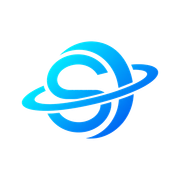
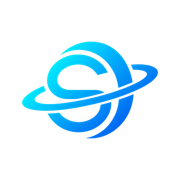
Updated website design

diff --git a/components/layout/navbar.tsx b/components/layout/navbar.tsx
@@ -20,7 +20,7 @@ import { Container } from "@/components/layout/container";
 import { ThemeToggle } from "@/components/layout/theme-toggle";
 import { Button, buttonVariants } from "@/components/ui/button";
 import { mainNavItems, siteConfig } from "@/constants/site";
-import { useScrollPosition } from "@/hooks";
+import { useScrollPosition, useMediaQuery } from "@/hooks";
 import { cn } from "@/lib/utils";
 
 import { ThemeLogo } from "@/components/layout/theme-logo";
@@ -28,6 +28,7 @@ import { ThemeLogo } from "@/components/layout/theme-logo";
 export function Navbar() {
   const pathname = usePathname();
   const scrolled = useScrollPosition();
+  const isDesktop = useMediaQuery("(min-width: 980px)");
 
   return (
     <header
@@ -35,7 +36,9 @@ export function Navbar() {
         "sticky top-0 z-50 w-full border-b transition-colors duration-200",
         scrolled
           ? "border-border bg-background/80 backdrop-blur-md"
-          : "border-transparent bg-background/60 backdrop-blur-md md:bg-transparent md:backdrop-blur-none"
+          : isDesktop
+            ? "border-transparent"
+            : "border-transparent bg-background/60 backdrop-blur-md"
       )}
     >
       <UtilityBar />
@@ -46,21 +49,23 @@ export function Navbar() {
             <ThemeLogo />
           </Link>
 
-          <DesktopNav pathname={pathname} />
+          {isDesktop && <DesktopNav pathname={pathname} />}
 
           <div className="flex shrink-0 items-center gap-2 md:gap-3">
             <ThemeToggle />
-            <Link
-              href="/contact"
-              className={cn(
-                buttonVariants({ size: "default" }),
-                "hidden rounded-full px-4 md:inline-flex"
-              )}
-            >
-              Contact Us
-              <ArrowRight className="size-3.5" aria-hidden="true" />
-            </Link>
-            <MobileNav pathname={pathname} />
+            {isDesktop && (
+              <Link
+                href="/contact"
+                className={cn(
+                  buttonVariants({ size: "default" }),
+                  "rounded-full px-4"
+                )}
+              >
+                Contact Us
+                <ArrowRight className="size-3.5" aria-hidden="true" />
+              </Link>
+            )}
+            {!isDesktop && <MobileNav pathname={pathname} />}
           </div>
         </div>
       </Container>
@@ -130,10 +135,10 @@ function DesktopNav({ pathname }: { pathname: string }) {
 
   return (
     <NavigationMenu.Root
-      className="hidden min-w-0 flex-1 md:flex md:justify-center"
+      className="flex min-w-0 flex-1 justify-center"
       aria-label="Main"
     >
-      <NavigationMenu.List className="relative flex items-center gap-6">
+      <NavigationMenu.List className="relative flex items-center gap-2 xl:gap-6">
         {items.map((item) => {
           if (!item.columns) {
             const isActive = pathname === item.href;
@@ -232,7 +237,7 @@ function MobileNav({ pathname }: { pathname: string }) {
           <Button
             variant="ghost"
             size="icon"
-            className="md:hidden"
+            className=""
             aria-label="Open menu"
           >
             <Menu aria-hidden="true" />

diff --git a/hooks/use-media-query.ts b/hooks/use-media-query.ts
@@ -1,0 +1,22 @@
+"use client";
+
+import { useEffect, useState } from "react";
+
+/**
+ * Returns `true` when the viewport matches the given media query string.
+ * Defaults to `false` on the server / first render to avoid hydration mismatches.
+ */
+export function useMediaQuery(query: string): boolean {
+  const [matches, setMatches] = useState(false);
+
+  useEffect(() => {
+    const mql = window.matchMedia(query);
+    setMatches(mql.matches);
+
+    const handler = (e: MediaQueryListEvent) => setMatches(e.matches);
+    mql.addEventListener("change", handler);
+    return () => mql.removeEventListener("change", handler);
+  }, [query]);
+
+  return matches;
+}

diff --git a/components/layout/theme-logo.tsx b/components/layout/theme-logo.tsx
@@ -11,15 +11,15 @@ import { siteConfig } from "@/constants/site";
 // browser's CSS `aspect-ratio: auto` resolves differently before vs. after
 // the image loads, which is what trips next/image's "width or height
 // modified, but not the other" warning.
-const DARK_LOGO = { src: "/images/blacklogo.png", width: 144, height: 56 };
-const LIGHT_LOGO = { src: "/images/whitelogo.png", width: 123, height: 56 };
+const DARK_LOGO = { src: "/images/blacklogo.png", width: 240, height: 64 };
+const LIGHT_LOGO = { src: "/images/whitelogo.png", width: 240, height: 64 };
 
 export function ThemeLogo() {
   const { resolvedTheme } = useTheme();
   const mounted = useHasMounted();
 
   if (!mounted) {
-    return <div className="h-10 w-[140px]" />;
+    return <div className="h-[56px] w-[210px] xl:h-[64px] xl:w-[240px]" />;
   }
 
   const isDark = resolvedTheme === "dark";
@@ -32,7 +32,7 @@ export function ThemeLogo() {
       width={logo.width}
       height={logo.height}
       priority
-      className="h-10 w-auto object-contain"
+      className="h-[56px] w-auto object-contain xl:h-[64px]"
     />
   );
 }

diff --git a/lib/metadata.ts b/lib/metadata.ts
@@ -40,6 +40,11 @@ export function constructMetadata({
       title: pageTitle,
       description,
     },
+    icons: {
+      icon: "/icon.png",
+      shortcut: "/favicon.ico",
+      apple: "/apple-icon.png",
+    },
     robots: noIndex
       ? { index: false, follow: false }
       : { index: true, follow: true },

diff --git a/components/layout/footer.tsx b/components/layout/footer.tsx
@@ -6,7 +6,7 @@ import { ThemeLogo } from "@/components/layout/theme-logo";
 import { footerLinkGroups, siteConfig, socialLinks } from "@/constants/site";
 
 export function Footer() {
-  const year = new Date().getFullYear();
+  const year = 2022;
 
   return (
     <footer className="w-full border-t border-border">

diff --git a/constants/site.ts b/constants/site.ts
@@ -16,7 +16,7 @@ export const siteConfig = {
     "Supereva Technology is an AI, product development, and data engineering company building AI-first software products and platforms.",
   keywords: ["Supereva", "AI software", "AI-first company", "product engineering"],
   contactEmail: "[email redacted]",
-  contactPhone: "[phone redacted]",
+  contactPhone: "[phone redacted]",
   links: {
     twitter: "https://twitter.com/supereva",
     github: "https://github.com/supereva",

diff --git a/hooks/index.ts b/hooks/index.ts
@@ -1,2 +1,3 @@
 export { useHasMounted } from "./use-has-mounted";
+export { useMediaQuery } from "./use-media-query";
 export { useScrollPosition } from "./use-scroll-position";